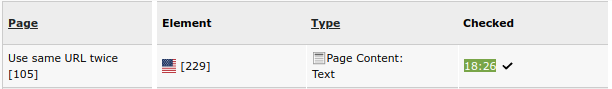
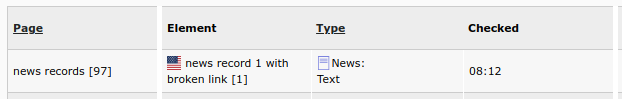
[BUGFIX] Change style of last check column in report
The "Last checked" column was recently checked to reflect the "last
check time" in comparison to the "last changed time" of the record.
If the record was changed after the check, we assume the broken
link information might be stale, otherwise we consider it fresh.

For "fresh" broken link information, the column was styled in green
with a checkmark. However, this may be confusing because it may
suggest that the check resulted in "ok" (meaning no broken links)
which is incorrect.

Thus, we now only style the field differently, if the broken link
information is detected as "stale".

diff --git a/Resources/Public/Css/brofix.css b/Resources/Public/Css/brofix.css
@@ -1,1 +1,1 @@
-.brofix-function-menu{margin-bottom:25px;margin-left:25px;margin-top:0;float:left}.brofix-function-menu input{margin-left:5px}.brofix-function-menu div{margin-top:11px}.brofix-check-options{float:left;display:block;margin-top:0;width:225px}.brofix-check-options div{float:left}.brofix-button{clear:both}div.brofix-brokenlink-list-form select.form-control{margin-bottom:5px}#brofix-statistics-table{width:230px;margin-top:5px;margin-bottom:14px}#brofix-statistics-table th td.number{padding-top:4px}#brofix-statistics-table td{border-left:1px solid white;vertical-align:middle}#brofix-statistics-table td:first-child{border-left:none}#brofix-statistics-table .number{padding-right:6px;text-align:center}#brofix-statistics-table span{vertical-align:middle}#brofix-broken-links-table{table-layout:fixed}#brofix-broken-links-table td{border-left:1px solid white;word-break:break-word}#brofix-broken-links-table td span.valid{color:green}#brofix-broken-links-table td span.error{color:red}#brofix-broken-links-table td:first-child{border-left:none}#brofix-broken-links-table td span.freshness_fresh{color:white;background-color:#79a548}#brofix-broken-links-table td span.freshness_stale{color:white;background-color:#c83c3c}#brofix-broken-links-table td.table-column-divider-end,#brofix-broken-links-table th.table-column-divider-end{border-right:6px white solid}
+.brofix-function-menu{margin-bottom:25px;margin-left:25px;margin-top:0;float:left}.brofix-function-menu input{margin-left:5px}.brofix-function-menu div{margin-top:11px}.brofix-check-options{float:left;display:block;margin-top:0;width:225px}.brofix-check-options div{float:left}.brofix-button{clear:both}div.brofix-brokenlink-list-form select.form-control{margin-bottom:5px}#brofix-statistics-table{width:230px;margin-top:5px;margin-bottom:14px}#brofix-statistics-table th td.number{padding-top:4px}#brofix-statistics-table td{border-left:1px solid white;vertical-align:middle}#brofix-statistics-table td:first-child{border-left:none}#brofix-statistics-table .number{padding-right:6px;text-align:center}#brofix-statistics-table span{vertical-align:middle}#brofix-broken-links-table{table-layout:fixed}#brofix-broken-links-table td{border-left:1px solid white;word-break:break-word}#brofix-broken-links-table td span.valid{color:green}#brofix-broken-links-table td span.error{color:red}#brofix-broken-links-table td:first-child{border-left:none}#brofix-broken-links-table td span.freshness_stale{color:white;background-color:#c83c3c}#brofix-broken-links-table td.table-column-divider-end,#brofix-broken-links-table th.table-column-divider-end{border-right:6px white solid}

diff --git a/Resources/Private/Templates/Backend/ReportTab.html b/Resources/Private/Templates/Backend/ReportTab.html
@@ -166,13 +166,8 @@
 					<td class="table-column-divider-end"
 						title="{f:translate(key: 'LLL:EXT:brofix/Resources/Private/Language/Module/locallang.xlf:list.info.freshness.{item.freshness}')}">
 						<span class="freshness_{item.freshness}">{item.lastcheck}</span>
-						<f:if condition="{item.freshness} == 'fresh'>">
-							<f:then>
-								<core:icon identifier="actions-check"/>
-							</f:then>
-							<f:else if="{item.freshness} == 'stale'>">
+						<f:if condition="{item.freshness} == 'stale'>">
 								<core:icon identifier="actions-document-synchronize"/>
-							</f:else>
 						</f:if>
 					</td>
 					<td colspan="2">

diff --git a/Resources/Private/Sass/brofix.scss b/Resources/Private/Sass/brofix.scss
@@ -84,12 +84,6 @@ div.brofix-brokenlink-list-form select.form-control {
     border-left: none;
 }
 
-
-#brofix-broken-links-table td span.freshness_fresh {
-    color: white;
-    background-color: #79a548;
-}
-
 #brofix-broken-links-table td span.freshness_stale {
     color: white;
     background-color: #c83c3c;

diff --git a/Documentation/Usage/Quickstart.rst b/Documentation/Usage/Quickstart.rst
@@ -117,7 +117,6 @@ Columns in the table:
 
    *  if (possibly) outdated: red background and a recheck icon.
       |check_stale_image|
-   *  if not outdated: green background with checkmark. |check_fresh_image|
 
 
 .. figure:: ../_images/table2.png
@@ -155,8 +154,6 @@ Columns in the table:
       is not rechecked!
 
 .. |edit_action_image| image:: ../_images/edit_action.png
-
-.. |check_fresh_image| image:: ../_images/checked_fresh.png
 
 .. |check_stale_image| image:: ../_images/checked_stale.png
 
